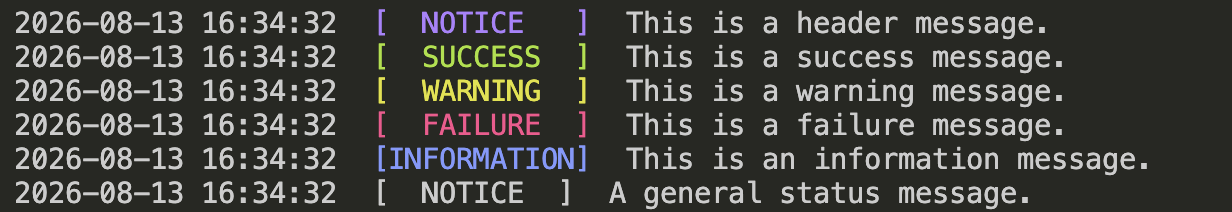
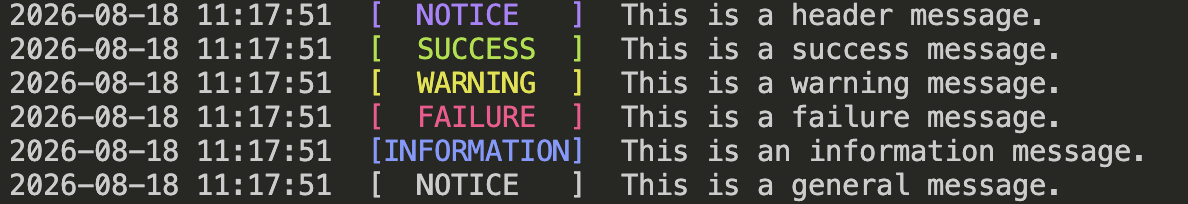
release: PTColors.jl v1.0.1 (#25)
* Initialize staging

* feat: create standalone PTColors Julia package (#2)

* feat: add PTColors package source and tests

* docs: add PTColors documentation

* ci: configure Julia testing and repository tooling

* fix: address pull request review feedback

* docs: improve PTColors documentation

* fix: run workflows directly in public repository

* fix: resolve documentation lint errors

* docs: use Apache License 2.0

* ci: update checkout action to v7

* chore: use slim Julia base image

* docs: refine package documentation and output example

* docs: add Julia callback output example

* ci: run release logging directly in public repository

* docs: clarify terminal color rendering

* chore: prepare PTColors.jl v0.1.0 release (#4)

* chore: correct release metadata

* ci: configure Julia release automation

* ci: update TagBot to v1.25.11

* fix: grant TagBot release permissions (#9)

* ci: customize TagBot release-note formatting (#13)

* ci: customize TagBot release-note formatting

* fix: address TagBot review feedback

* docs: make General registry installation the default (#14)

* docs: make General registry installation the default

* fix: PTColors LICENSE url

* docs: align terminal examples and ANSI color descriptions (#16)

* docs: align terminal examples and ANSI color descriptions

* docs: clarify ANSI output behavior

* bump: PTColors.jl v1.0.0 (#17)

* fix: support Julia 1.10 LTS (#20)

* fix: support Julia 1.10 LTS
[…]

Changed region(s): [[0.0, 0.0, 0.9032, 0.6765], [0.0, 0.6765, 0.9655, 1.0]]

diff --git a/README.md b/README.md
@@ -1,6 +1,6 @@
 # 🎨 PTColors.jl
 
-[![Julia 1.11+](https://img.shields.io/badge/Julia-1.11%2B-9558B2?logo=julia)](https://julialang.org)
+[![Julia 1.10+](https://img.shields.io/badge/Julia-1.10%2B-9558B2?logo=julia)](https://julialang.org)
 [![Apache 2.0](https://img.shields.io/badge/License-Apache%202.0-4063D8)](LICENSE)
 
 `PTColors` is a lightweight Julia package designed to add color-coded, timestamped messages to terminal output with minimal effort. It is useful for command-line applications, scripts, simulations, and other projects that need readable status messages.
@@ -18,7 +18,7 @@ The package provides information, success, warning, failure, and header messages
 
 ## 📋 Requirements
 
-- Julia 1.11 or later
+- Julia 1.10 or later
 
 ## 📦 Installation
 
